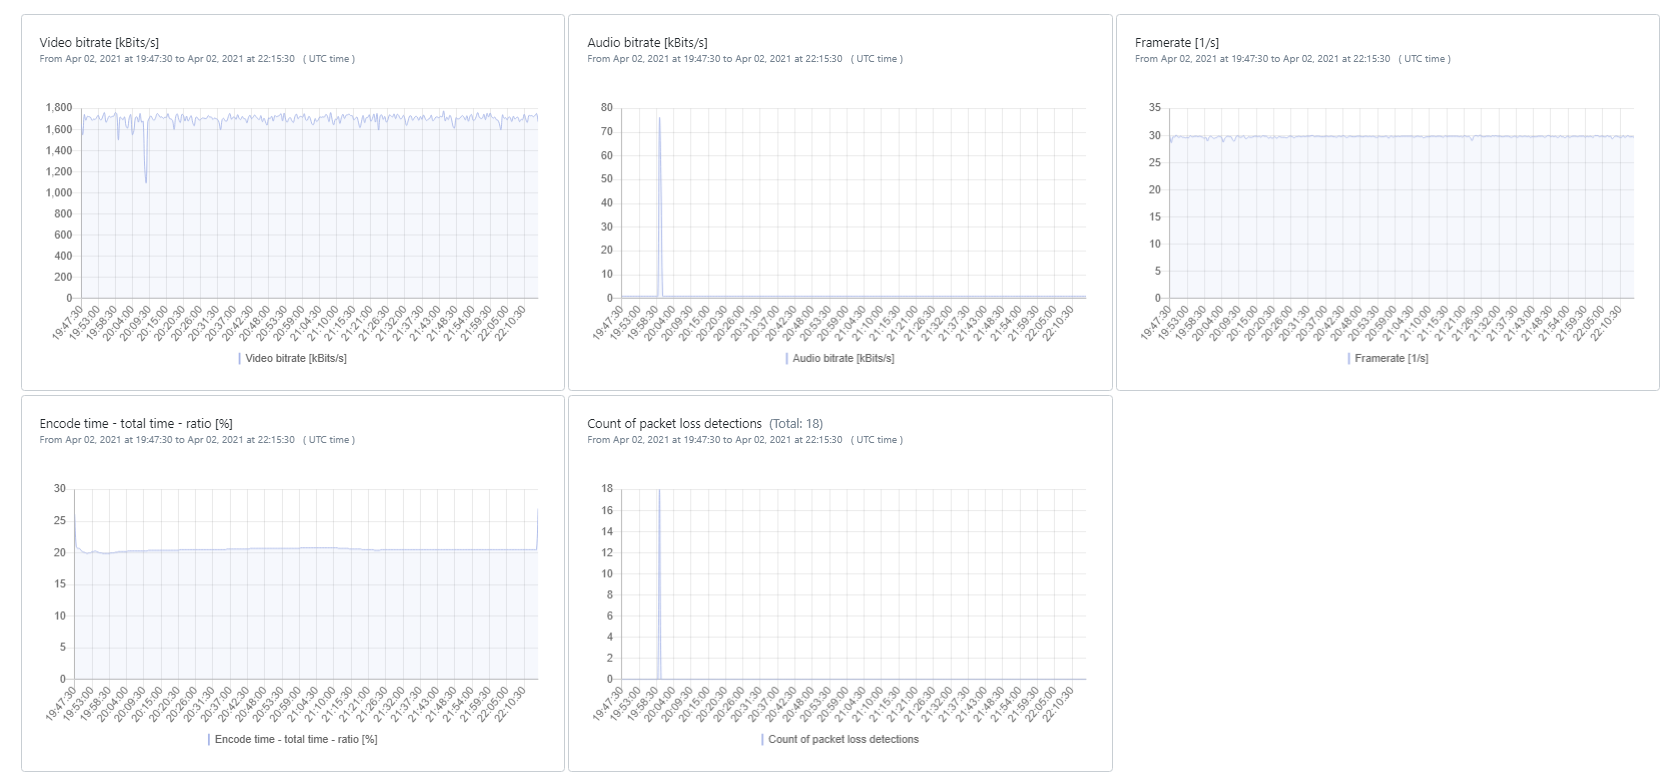
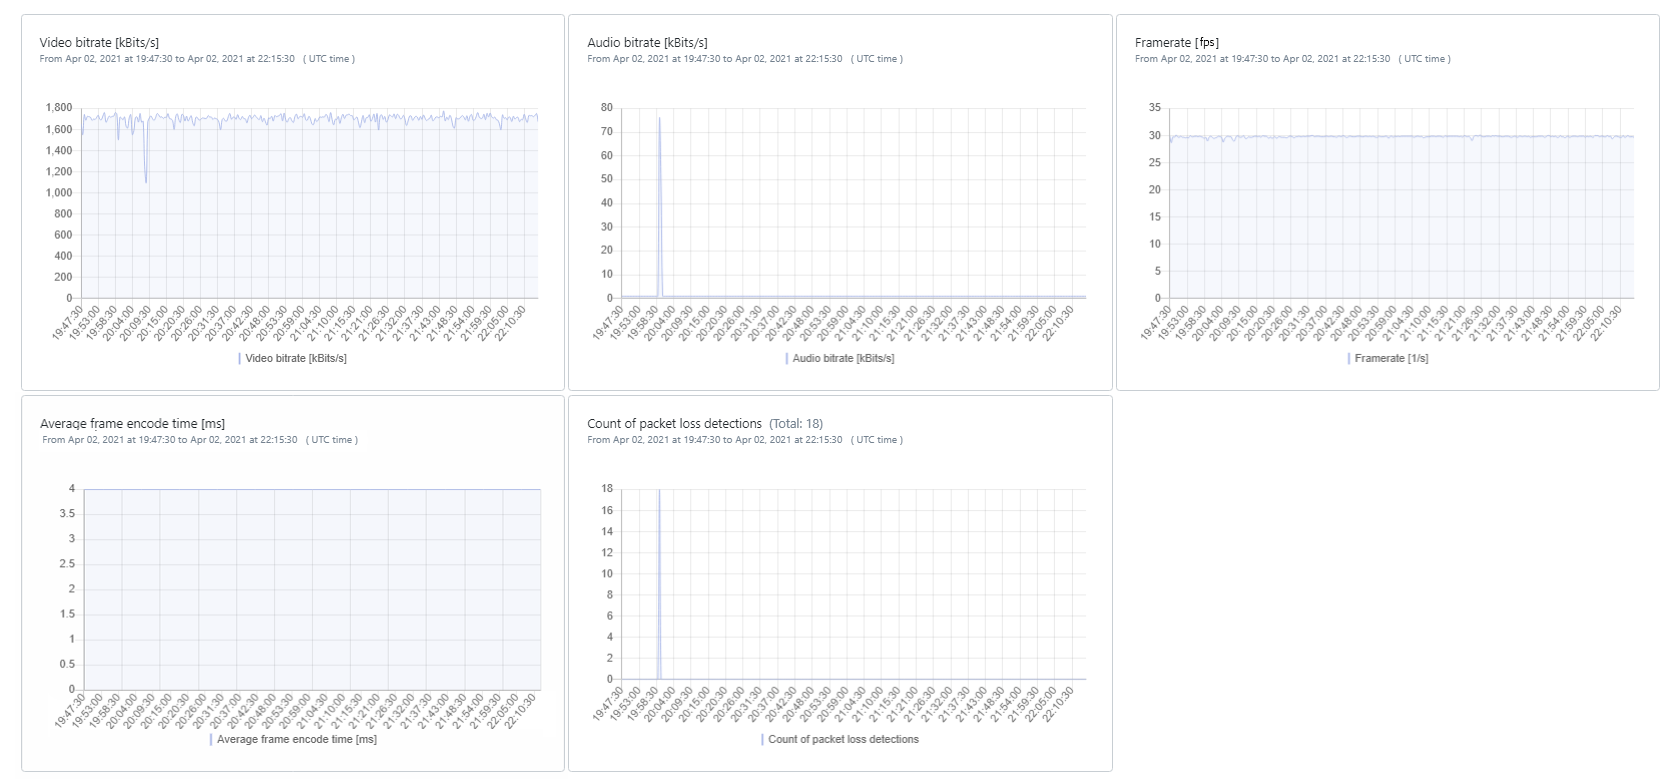
improved comprehension

diff --git a/docs/cloud/troubleshooting.md b/docs/cloud/troubleshooting.md
@@ -18,13 +18,13 @@ Access to the Trouble Shooting page is available for every nanoStream Cloud cust
 
 The time picker declares the time period in which you will query for available metric results. Use to " Set to Now" button the to automatically update to the current time.
 
-> **Note**, that UTC is the current standard for time periods which are used by our metrics.
+> **Note**, date and time values are interpreted as UTC, an offset to your local timezone needs to be considered.
 
 ![Screenshot](assets/tp-time_picker.png)
 
 ## Playouts
 
-After selecting a specific time period you are asked to enter an IP address or an user ID to access playout statistics about all streams that this user retrieved. You will then be able to select one out of the 5 newest playouts based on their start date. To view more than these 5 results you need to adjust the time range accordingly. We also implemented support for current running playouts.
+After selecting a specific time period you are asked to enter an IP address or an user ID to access playout statistics about all streams that this user retrieved. You will then be able to select one out of the 5 newest playouts based on their start date. To view more than these 5 results you need to adjust the time range accordingly. We also implemented support for currently running playouts.
 
 > **Note**, only organizations with player metrics option enabled will be able to see the items in this data group.
 
@@ -49,42 +49,42 @@ After selecting a specific time period you are asked to enter an IP address or a
 `Ingest` tab which selects to view ingest statistics. Ingest statistics for all streams in the selected time period are retrieved.
 
 &#9404;
-`Copy URL to share` will copy the current page setup to clipboard. Users can send this URL link information to nanocosmos support for further troubleshooting help.
+`Copy URL to share` will copy the current page setup to clipboard. Users can send this URL to nanocosmos support for further troubleshooting help.
 
 &#9405;
-`IP address/user ID` indicates using either the IP address used in client playouts or user IDs to search for related streams.
+`IP address/user ID` specifies either the IP address used in client playouts or user IDs to search for related streams.
 
-> **Note**, to make this work with UIDs, you have to assign IDs to your users beforehand and also transmit that to the [player API](https://docs.nanocosmos.de/docs/nanoplayer/nanoplayer_player_metrics/#how-to-use).
+> **Note**, to make this work with user IDs, you have to assign IDs to your users beforehand and also transmit that to the [player API](https://docs.nanocosmos.de/docs/nanoplayer/nanoplayer_player_metrics/#how-to-use).
 
 &#9406;
 `Select a stream` shows all streams that has a playout related to the IP address or user ID set earlier.
     
 ### Stream Playout Information
 
-If there are statistics about the valid IP / UID within the stated time period, you will have a selection of streams that this user entered. Select the desired stream name and you will see a list of all playouts that user had in combination with the selected stream name. After you selected a playout you can access meta data information and also more detailed statistics below. Define the time interval with the slider to zoom into streams with a longer duration or to focus on specific parts of the stream. At this point you can synchronize with the corresponding ingest data of the playout on the right side.
+If there are metrics available for the selected IP/ user ID within the stated time period, a list of streams viewed by this user is shown. Select the desired stream name to see a list of all playouts for this stream. After you selected a playout more detailed information are shown. Define the time interval with the slider to zoom into streams with a longer duration or to focus on specific parts of the stream. At this point you can synchronize with the corresponding ingest data of the playout on the right side.
 
 ![Playout Stream Information](assets/tp-po1.png)
 
 &#9398;
-`Playouts of stream` indicates the selected stream name to check.
+`Playouts` of selected stream name.
 
 &#9399;
-`Start` indicates the start time.\
-`End` indicates the end time.\
-`Duration` indicates the active time.
+`Start` indicates the start of playout.\
+`End` indicates the end of playout.\
+`Duration` indicates playback duration.
 
 &#9400;
 Groups of meta-data information are shown related to the stream. The meta-data includes :\
-`User ID` - user defined data setup using the nanoPlayer API.\
+`User ID` - [user ID](https://docs.nanocosmos.de/docs/nanoplayer/nanoplayer_player_metrics/#how-to-use).\
 `IP` - client IP address used for playout.\
-`Event ID` - user defined data setup using the nanoPlayer API.\
-`Custom field 1` - user defined data setup using the nanoPlayer API.\
-`Playout ID` - internal generated unique ID.\
+`Event ID` - [event ID](https://docs.nanocosmos.de/docs/nanoplayer/nanoplayer_player_metrics/#how-to-use).\
+`Custom field 1` - [custom field1](https://docs.nanocosmos.de/docs/nanoplayer/nanoplayer_player_metrics/#how-to-use).\
+`Playout ID` - internally generated unique ID.\
 `H5Live player version` - version of nanoplayer used.\
 `Device` - type of device used.\
 `Referrer` - webpage that hosts the nanoPlayer.\
-`Country` - country in which playout was initiated.\
-`City` - city in which playout was initiated.\
+`Country` - location of user.\
+`City` - location of user.\
 `Resolution width` - width of video stream in pixels.\
 `Resolution height` - height of video stream in pixels.\
 `OS` - OS used.\
@@ -96,13 +96,13 @@ Groups of meta-data information are shown related to the stream. The meta-data i
 This tab shows which group of meta-data information is being shown at the moment and how many groups are available.
 
 &#9402; &#9403;
-This area allows changing between different groups of meta-data information for viewing.
+Click to switch between meta-data information.
 
 &#9404;
 This time slider can be used to define the time interval, allowing to zoom into streams with a longer duration or to focus on specific parts of the stream.
 
 &#9405;
-`Synchronize ingest` gives the ability to synchronize the current selected playout with the corresponding ingest data group that provided the playout. In this selection, the playout data group is shown on the left side while the ingest data group is shown on the right side. This is same as selecting the ***End to End*** data group.
+`Synchronize ingest` gives the ability to synchronize the currently selected playout with the corresponding ingest data group. In this selection, the playout data group is shown on the left side while the ingest data group is shown on the right side. This is same as selecting the ***End to End*** data group.
 
 > **Note**, if an user reloads the page of a stream, it will be accounted as a new playout. 
 
@@ -112,15 +112,15 @@ This time slider can be used to define the time interval, allowing to zoom into 
 
 ### Visualizations
 
-This part of the playout data group shows the graphical view of various media statistics.
+This area shows charts for various player metrics.
 
 ![Playout Media Information](assets/tp-po2.png)
 
 `Bitrate` [kBits/s]:
-The corresponding retrieved bitrate on client side at a specific time. Purple lines symbolize event calls which are also listed under the Events table.
+The retrieved bitrate on the client side at a specific time. Purple lines symbolize events which are also listed in the Events table.
 
 `Latency` [s]:
-The latency from ingest to playout. Purple lines symbolize event calls which are also listed under the Events table.
+The latency from ingest to playout. Purple lines symbolize events which are also listed in the Events table.
 
 `Buffering Totaltime Ratio` [%]:
 The ratio between buffer and playback duration. 
@@ -128,7 +128,7 @@ The ratio between buffer and playback duration.
 > **Note**, a ratio of 0% means no buffering and a ratio of 100% means no playback was possible.
 
 `Events`:
-The 5 oldest called events within the defined time period. (These are always equal to the 5 furthest left events in the chart)
+All events that occurred in the selected playout.
 
 ## Ingests
 
@@ -140,18 +140,18 @@ The ***Ingest*** tab selects the ingest data group with all items described in d
 `Stream name` indicates the stream name of interest.
 
 &#9399;
-`Start` indicates the start time.\
-`End` indicates the end time.\
-`Duration` indicates the active time.
+`Start` indicates the ingest start time.\
+`End` indicates the ingest end time.\
+`Duration` indicates ingest duration.
 
 &#9400;
 Groups of meta-data information are shown related to the stream. The meta-data includes :\
 `Protocol` - streaming protocol used.\
 `Data center` - specific data center used for this ingest.\
 `Server` - specific server in the data center used.\
-`IP` - client IP address in which ingest was initiated.\
-`Country` - country in which ingest was initiated.\
-`City` - city in which ingest was initiated.\
+`IP` - client IP from which the stream was ingested.\
+`Country` - location of client IP.\
+`City` - location of client IP.\
 `Resolution width` - width of video stream in pixels.\
 `Resolution height` - height of video stream in pixels.
 
@@ -159,14 +159,14 @@ Groups of meta-data information are shown related to the stream. The meta-data i
 This tab shows which group of meta-data information is being shown at the moment and how many groups are available.
 
 &#9402; &#9403;
-This area allows changing between different groups of meta-data information for viewing.
+Click to switch between meta-data information.
 
 &#9404;
 This time slider can be used to define the time interval, allowing to zoom into streams with a longer duration or to focus on specific parts of the stream.
 
 ### Visualizations 
 
-After the overview of the meta data you can define a specific time period within the stream duration. Therefore you can use the slider or type the time in manually, in which case the time gets rounded respective to the selected time interval to insure correct data aggregation. The results you get for the ingest stream name are also sorted by newest first as for the playouts. Selecting a time period auto-refreshes the statistics below.
+Define the time interval with the slider to zoom into streams with a longer duration or to focus on specific parts of the stream. The results you get for the ingest stream name are also sorted by newest first as for the playouts. Selecting a time period auto-refreshes the statistics below.
 
 #### RTMP Ingests
 
@@ -175,30 +175,32 @@ Ingests using RTMP only provide metrics about video and audio bitrates.
 ![Screenshot](assets/tp-ingest2.png)
 
 `Video bitrate` [kBits/s]:
-The uploaded bitrate of video data.
+Video bitrate of the ingested stream.
 
 `Audio bitrate` [kBits/s]:
-The uploaded bitrate of audio data.
+Audio bitrate of the ingested stream.
 
 #### WebRTC Ingests
 
 Ingests using Web Real Time Communication are providing additional insights to framerate, encoding and package delivery.
 
+> **Note**, to have WebRTC metric data available for the Troubleshooting page, you need to be enabled for [H5Live player metrics](https://docs.nanocosmos.de/docs/nanoplayer/nanoplayer_player_metrics).
+
 ![Screenshot](assets/tp-webrtc.png)
 
 `Video bitrate` [kBits/s]:
-The uploaded bitrate of video data.
+Video bitrate of the ingested stream.
 
 `Audio bitrate` [kBits/s]:
-The uploaded bitrate of audio data.
+Audio bitrate of the ingested stream.
 
-`Framerate` [1/s]:
-Amount of uploaded video frames.
+`Framerate` [fps]:
+Framerate of the ingested stream.
 
 `Average frame encode time` [ms]:
 The average time needed to encode one frame of the stream.
    
-> **Note**, that a high ratio is an indicator for high encoder workload, which can lead to ingest problems. 
+> **Note**, that a long encode time is an indicator for high encoder workload, which can lead to ingest problems. 
 
 `Count of packet loss detections`:
 Amount of WebRTC notifications about lost data packages.
@@ -226,13 +228,13 @@ Similarly, the detected audio bitrate is averaging above 25Kbps and this can be 
 #### Audio/Video ingest workflow in good condition
 
 The figure below shows the graphical representation.\
-As can be observed, the average video bitrate is about 1.2Mbps while audio bitrate is about 90Kbps. The video and audio bitrates does not deviate too much from the center average over time and will not cause overflow or underflow of buffers.
+As can be observed, the average video bitrate is about 1.2Mbps while audio bitrate is about 90Kbps. The video and audio bitrates do not deviate too much from the average over time and will not cause overflow or underflow of buffers.
 
 ![AV Good](assets/tp-ingest2.png)
 
 #### Audio/Video ingest workflow with network issues
 
 The figure below shows the graphical representation.\
-As can be observed, the average video bitrate is about 2Mbps while audio bitrate is about 150Kbps. Towards the end of the graph as highlighted by the red box, the video and audio bitrates fluctuates by more than 50% of the average. This signifies some issues with the ingest from the encoder to nanoCosmos CDN. Some causes of these could be ISP related network degradation or encoding anomalies. If this issue is not rectified quickly, then it will cause overflow or underflow of buffers resulting in buffering, connection issues, etc.
+As can be observed, the average video bitrate is about 2Mbps while audio bitrate is about 150Kbps. Towards the end of the graph as highlighted by the red box, the video and audio bitrates fluctuate by more than 50% of the average. This signifies some issues with the ingest from the encoder to nanocosmos CDN. Some causes of these could be ISP related network degradation or encoding anomalies. If this issue is not rectified quickly, then it will cause overflow or underflow of buffers resulting in buffering, connection issues, etc.
 
 ![AV Bad](assets/tp-ingestNG.png)
